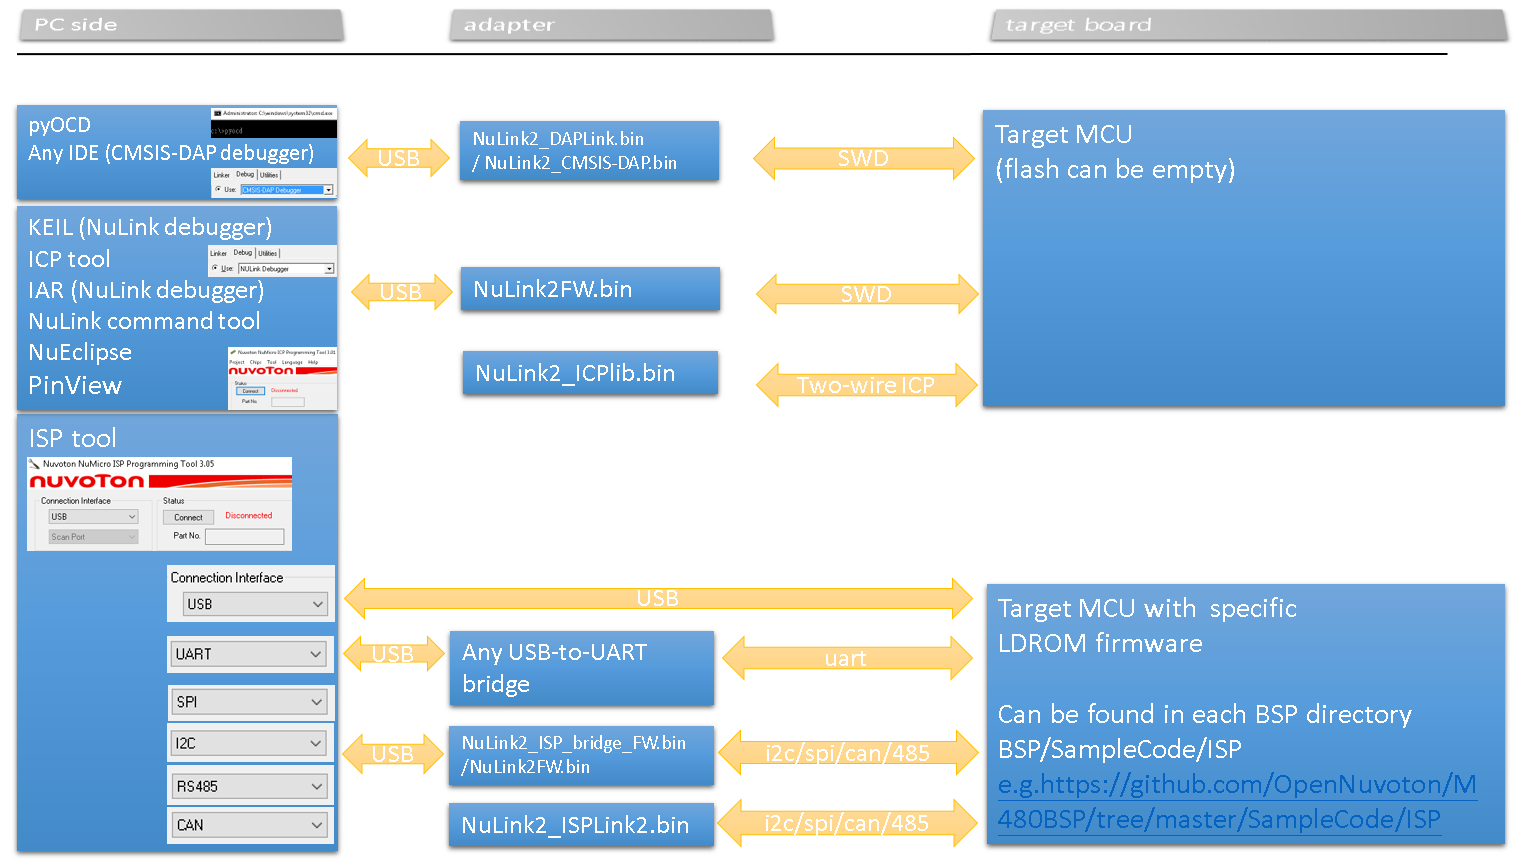
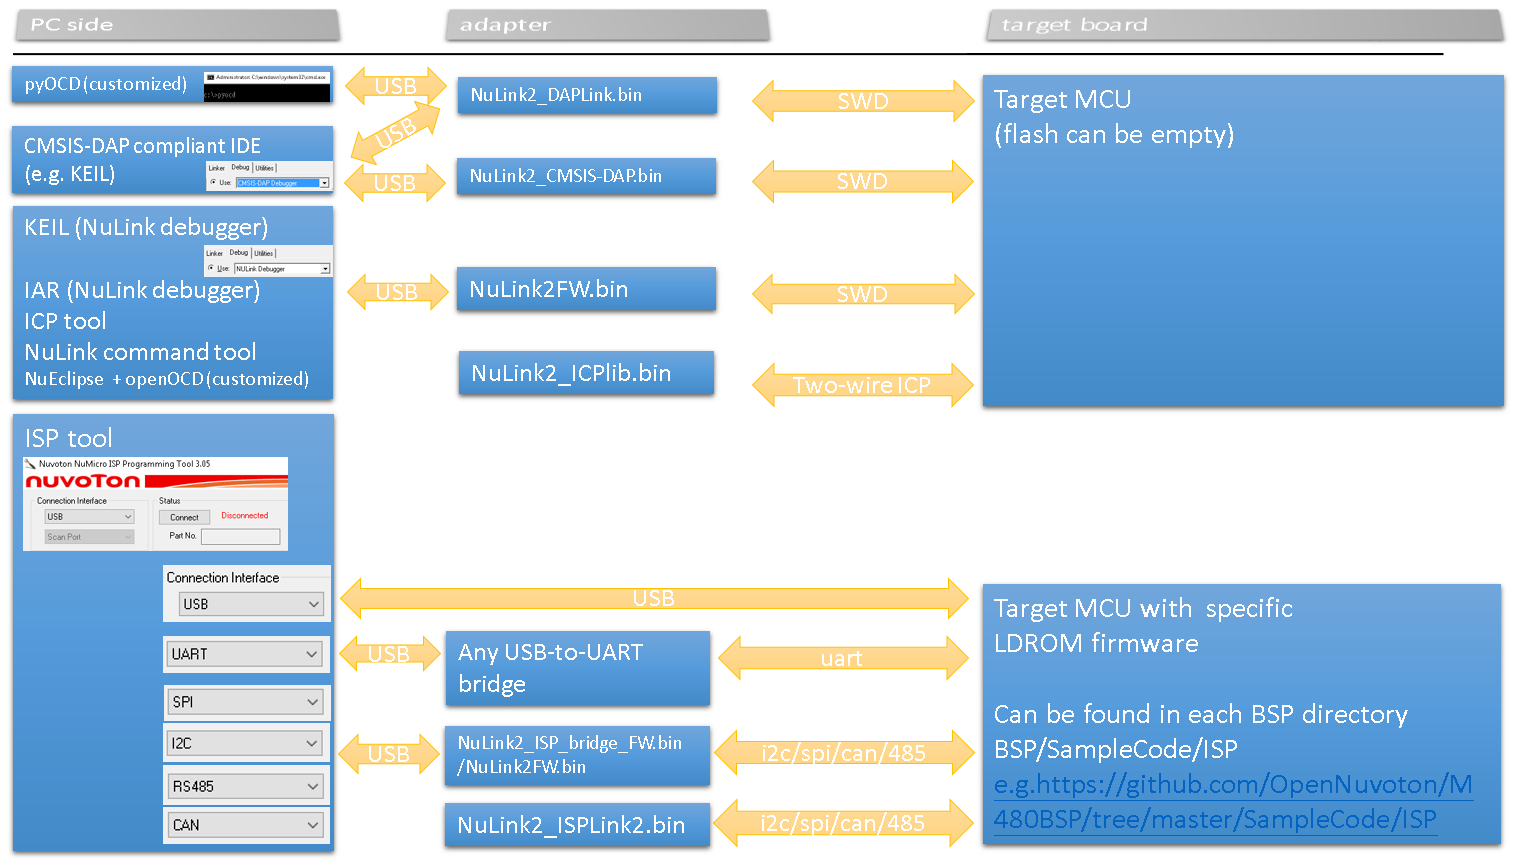
't'

diff --git a/README.md b/README.md
@@ -1,5 +1,93 @@
+# PC Tool  
+[Nuvoton tools official website](https://www.nuvoton.com/tool-and-software/software-development-tool/driver/)
+## Development Tool
+Debugger
+- [KEIL Nu-Link debugger driver installer](https://www.nuvoton.com/resource-download.jsp?tp_GUID=SW1120200221180521)
+- [IAR Nu-Link debugger driver installer](https://www.nuvoton.com/resource-download.jsp?tp_GUID=SW1120200221180914)
+- [NuEclipse installer](https://www.nuvoton.com/resource-download.jsp?tp_GUID=SW1120200401182901)
+- [PinView installer](https://www.nuvoton.com/resource-download.jsp?tp_GUID=SW1320200221181935)  
+- [Customized pyOCD source code](https://github.com/OpenNuvoton/pyOCD) (using adapter firmware "NuLink2_DAPLink.bin")
+- [Customized openOCD source code](https://github.com/OpenNuvoton/OpenOCD-Nuvoton)  (using adapter firmware "NuLink2FW.bin")
+  
+NuTool: Coding assistant  
+- [PinConfig installer](https://www.nuvoton.com/resource-download.jsp?tp_GUID=SW1320200319135912)
+- [ClockConfig installer](https://www.nuvoton.com/resource-download.jsp?tp_GUID=SW1320200930114649)
 
-dd
+## Programmer Tool
+- [ICPTool installer](https://www.nuvoton.com/resource-download.jsp?tp_GUID=SW1720200221181328)  
+- [ISPTool installer](https://www.nuvoton.com/opencms/resource-download.jsp?tp_GUID=SW0320101221101703)  
+- [ISPTool source code](https://github.com/OpenNuvoton/ISPTool)    
+- [ISPTool command set](./doc/NuMicro_ISP_Flow_And_Command_Set.pdf)    
+- [NuLink command tool installer](https://www.nuvoton.com/resource-download.jsp?tp_GUID=SW1720200221181644)  
 
+<br>
+<br>
+
+# Nu-Link2-Pro debugging and programming adapter
+When using debugging and programming tool above, you need an USB adapter. 
+We introduce you a new feature-rich Nu-Link2-Pro adapter here.   
+- [Where to buy](https://direct.nuvoton.com/tw/Nu-Link2-pro)   
+- [User manual](https://www.nuvoton.com/resource-download.jsp?tp_GUID=UG1320200319174043)  
+### The role of Nu-Link2-Pro adapter
+User can switch roles that Nu-Link2-Pro play by re-programming Nu-Link2-Pro to another .bin file  
+All Nu-Link2-Pro firmware image (.bin files) can be found [here](./Latest_NuLink_Firmware)  
+#### How to update Nu-Link2-Pro firmware?
+1. Press the button on Nu-Link2-Pro and plug in USB cable.
+2. A "Nu-Link2-Pro" disk will show. (If you see disk name is "NuMicro MCU", it will upgrade DUT firmware instead of Nu-Link2-Pro itself) 
+3. Drag and drop Nu-Link2-Pro image .bin into the disk.
+4. Re-plug the USB cable and it's done.
+#### More options for NuLink2FW
+When you upgrade the NuLink2FW.bin version larger than v6131, and open NU.TXT in pop-up "NuMicro MCU" disk, you will see some options in NU.TXT .
+For example, you can see Nu-Bridge and CMSIS-DAP option. 
+Set Nu-Bridge=1 then re-plug in USB cable, Nu-Bridge function will be enabled. Nu-Bridge offers pass-through function for I2C/SPI/RS485/CAN interfaces. 
+(You will see an additional "Nu-Bridge2 Virtual Com Port" in device manager.)
+picture of NB2 (information about NB2)
+
+Set Nu-Bridge=0 then re-plug in USB cable, ISP-Bridge function will be enabled. ISP-Bridge2 offers I2C/SPI/RS485/CAN interfaces those communicate with ISPTool.
+(Note that Nu-Bridge and ISP-Bridge will not present at the same time.)
+
+Set CMSIS-DAP=1 then re-plug in USB cable, it presents one more interface HID_CMSIS-DAP, this is handy if you want to use CMSIS-DAP protocol.
+
+![](img/nulink2.PNG)
+
+### Brief description of each adapter bin file  
+#### [NuLink2FW.bin](./Latest_NuLink_Firmware)
+- Proprietary code (except NuLink2FW.bin, most of Nu-Link2-Pro firmware are open source)
+- Support NuMicro 8051, offline programming, user code read-out protection, unlimited flash break points, NuMicro chips specific features (config0/config1 dataflash setting, KPROM, etc.)
+- USB interfaces: HID_ICE(proprietary commands)/MSC/VCOM/HID_CMSIS-DAP/HID_ISP or VCOM_NuBridge (set in NU.TXT)
+- 
+
+
+#### [NuLink2_ISP_Bridge.bin](./Latest_NuLink_Firmware)
+- This is the latest image built from [NuLink2_ISP_Bridge](https://github.com/OpenNuvoton/NuLink2_ISP_Bridge)
+- ISP bridge firmware is also integrated into NuLink2FW.bin (see HID_ISP above), so ISP tool can connect with NuLink2FW.bin, too.
+- The target ISP loader code can be found at directory "BSP/SampleCode/ISP/" of each BSP. BSP can be found at https://github.com/OpenNuvoton or https://gitee.com/OpenNuvoton.  
+
+#### [NuLink2_CMSIS_DAP.bin](./Latest_NuLink_Firmware)
+- This is the latest image built from [CMSIS-DAP on Nu-Link2-Pro](https://github.com/OpenNuvoton/NuLink2_CMSIS_DAP)
+- CMSIS-DAP firmware is also integrated into NuLink2FW.bin (see HID_CMSIS-DAP above).
+- If you don't need rich features of DAPLink, this is the light weight choice of CMSIS-DAP firmware.
+
+
+#### [NuLink2_DAPLink.bin](./Latest_NuLink_Firmware)
+- This is the latest image built from [DAPLink on Nu-Link2-Pro](https://github.com/OpenNuvoton/DapLink)  
+- Support many 3rd party IDE
+- USB interfaces: HID(CMSIS-DAP commands)/MSC/VCOM 
+
+#### [NuLink2_ISPLink2.bin](./Latest_NuLink_Firmware)
+- This is the latest image built from [NuLink2_ISPLink2](https://github.com/OpenNuvoton/NuLink2_ISPLink2)
+- The target ISP loader code can be found at directory "BSP/SampleCode/ISP/" of each BSP. BSP can be found at https://github.com/OpenNuvoton or https://gitee.com/OpenNuvoton.  
+
+#### [NuLink2_ICP_Library.bin](./Latest_NuLink_Firmware)
+- This is the latest image built from [ICP library](https://github.com/OpenNuvoton/NuLink2_ICP_Library)
+- This sample code is useful when user wants to make his own programmer on another Cortex-M.
+- ICPLib (two-wire ICP interface for NuMicro cortexM & 8051) on Nu-Link2 (M48SSIDAE)
+
+https://github.com/OpenNuvoton/NuBridge2_script
+https://github.com/OpenNuvoton/NuBridge2_Terminal
+https://github.com/OpenNuvoton/NuBridge2_Firmware
+
+<br>
+<br>
 
 
